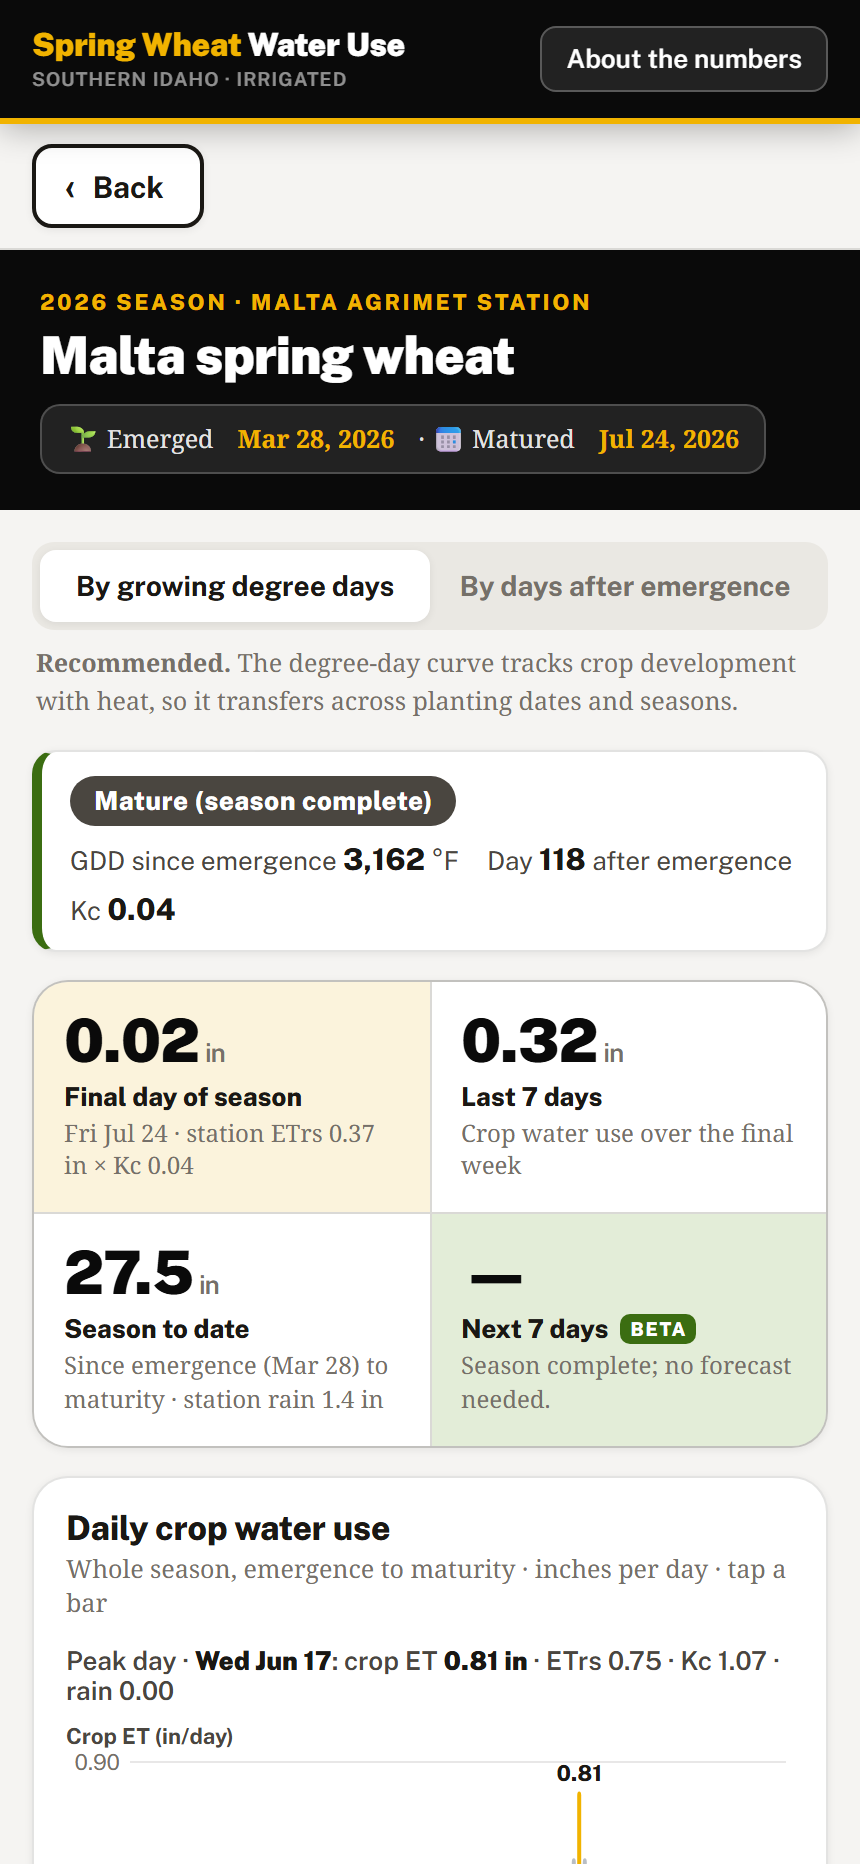
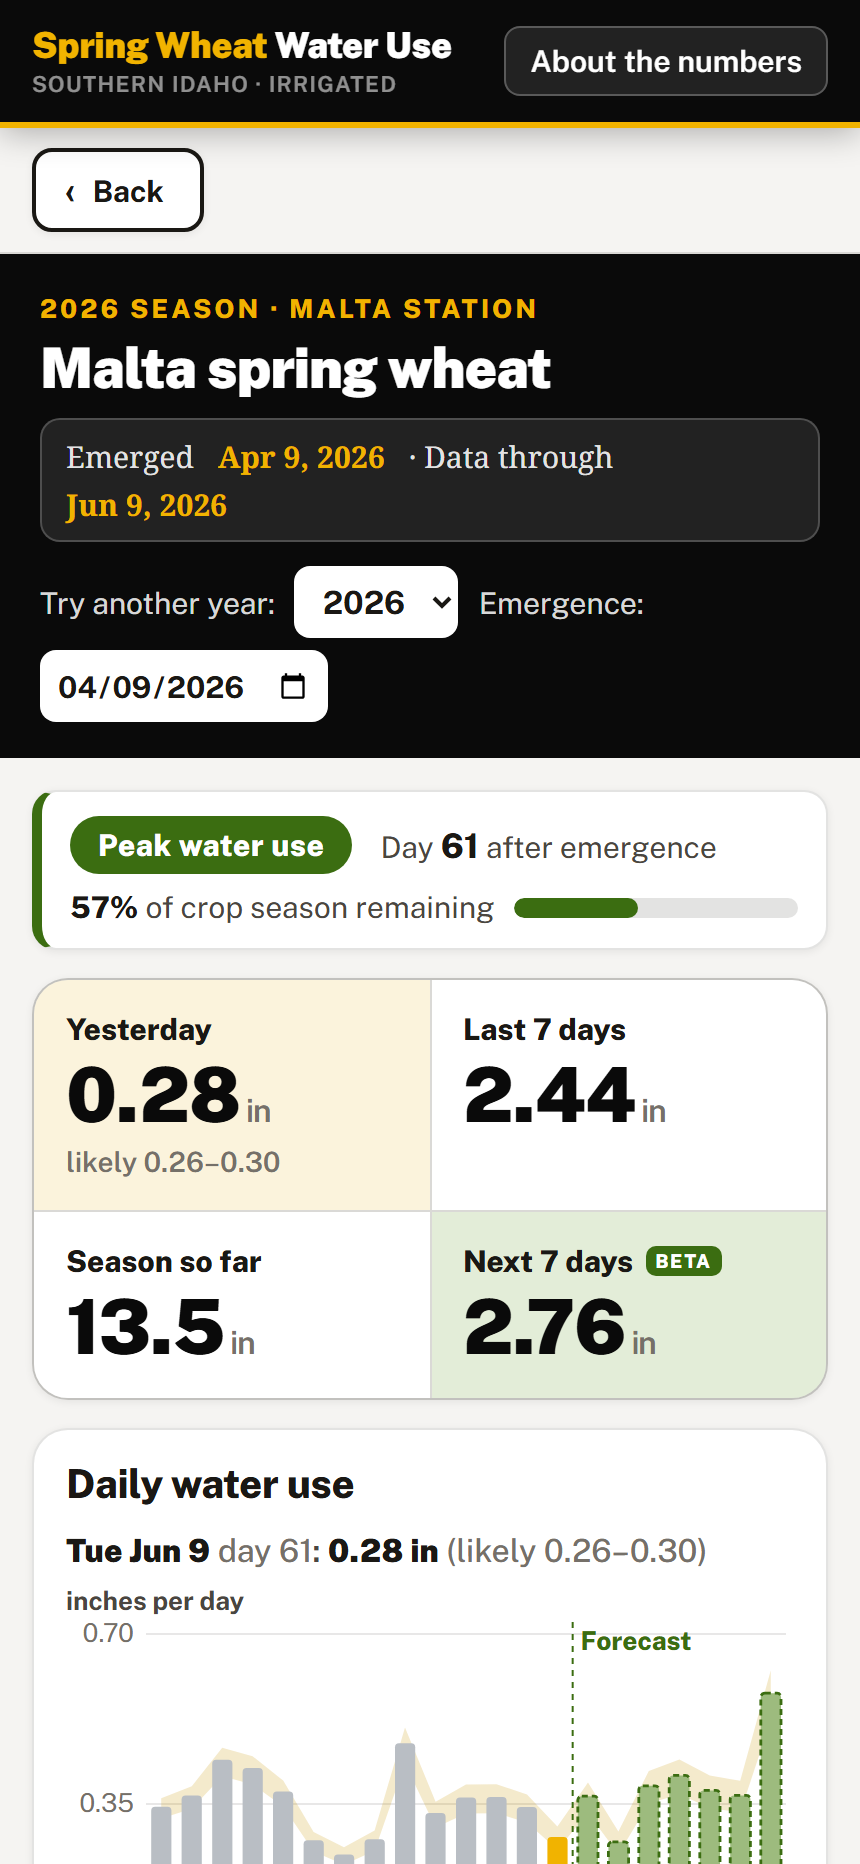
Fix season-total chart with forecast: forecast continues the running total; refresh screenshots

Changed region(s): [[0.0, 0.0, 1.0, 1.0], [0.8163, 0.5912, 0.907, 0.6223]]

diff --git a/index.html b/index.html
@@ -647,7 +647,9 @@ function computeSeason(rows, fc, emergence, today) {
     arr.forEach(r => { s.et += r.et || 0; s.lo += r.etLo || 0; s.hi += r.etHi || 0; r.cum = s.et; r.cumLo = s.lo; r.cumHi = s.hi; });
     return s; };
   const tot = acc(obs, { et: 0, lo: 0, hi: 0 });
-  const ftot = acc(fcst, { et: 0, lo: 0, hi: 0 });
+  // forecast days continue the season running total (r.cum); next 7 days = the forecast part only
+  const ftot = acc(fcst, { ...tot });
+  ftot.et -= tot.et; ftot.lo -= tot.lo; ftot.hi -= tot.hi;
   const sum = (a, k) => a.reduce((s, r) => s + (r[k] || 0), 0);
   const w7 = obs.slice(-7);
   return {

diff --git a/sw.js b/sw.js
@@ -3,7 +3,7 @@
 // data — AgriMet (via the relay or /api/daily) and Open-Meteo always go to
 // the network so water-use numbers are current.
 
-const CACHE_NAME = "sw-wheat-et-shell-v6";
+const CACHE_NAME = "sw-wheat-et-shell-v7";
 const SHELL_FILES = ["./index.html", "./manifest.json", "./icon.png"];
 
 self.addEventListener("install", (event) => {
